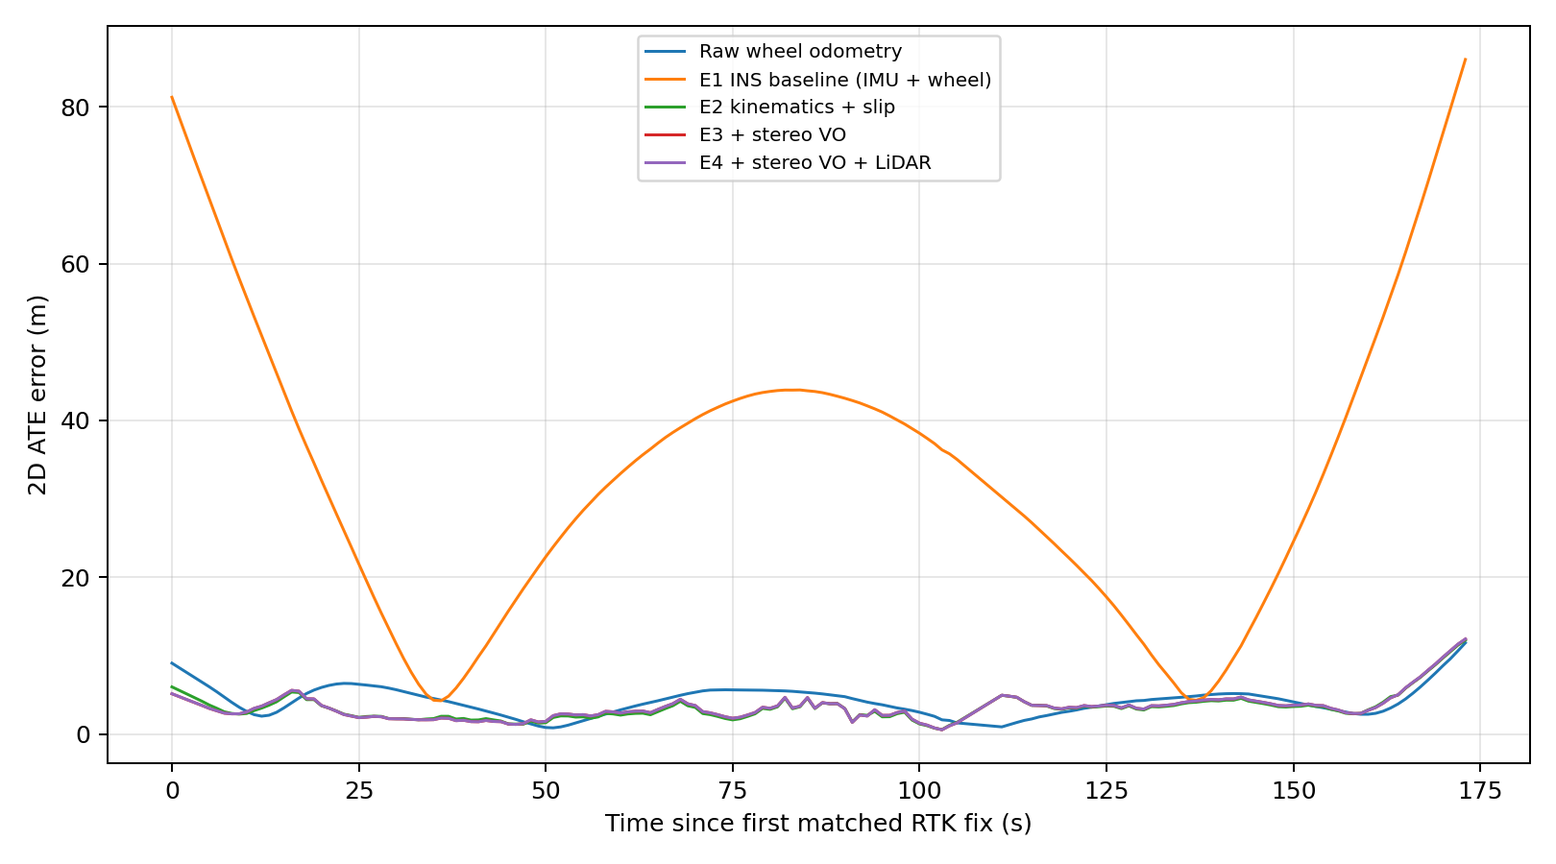
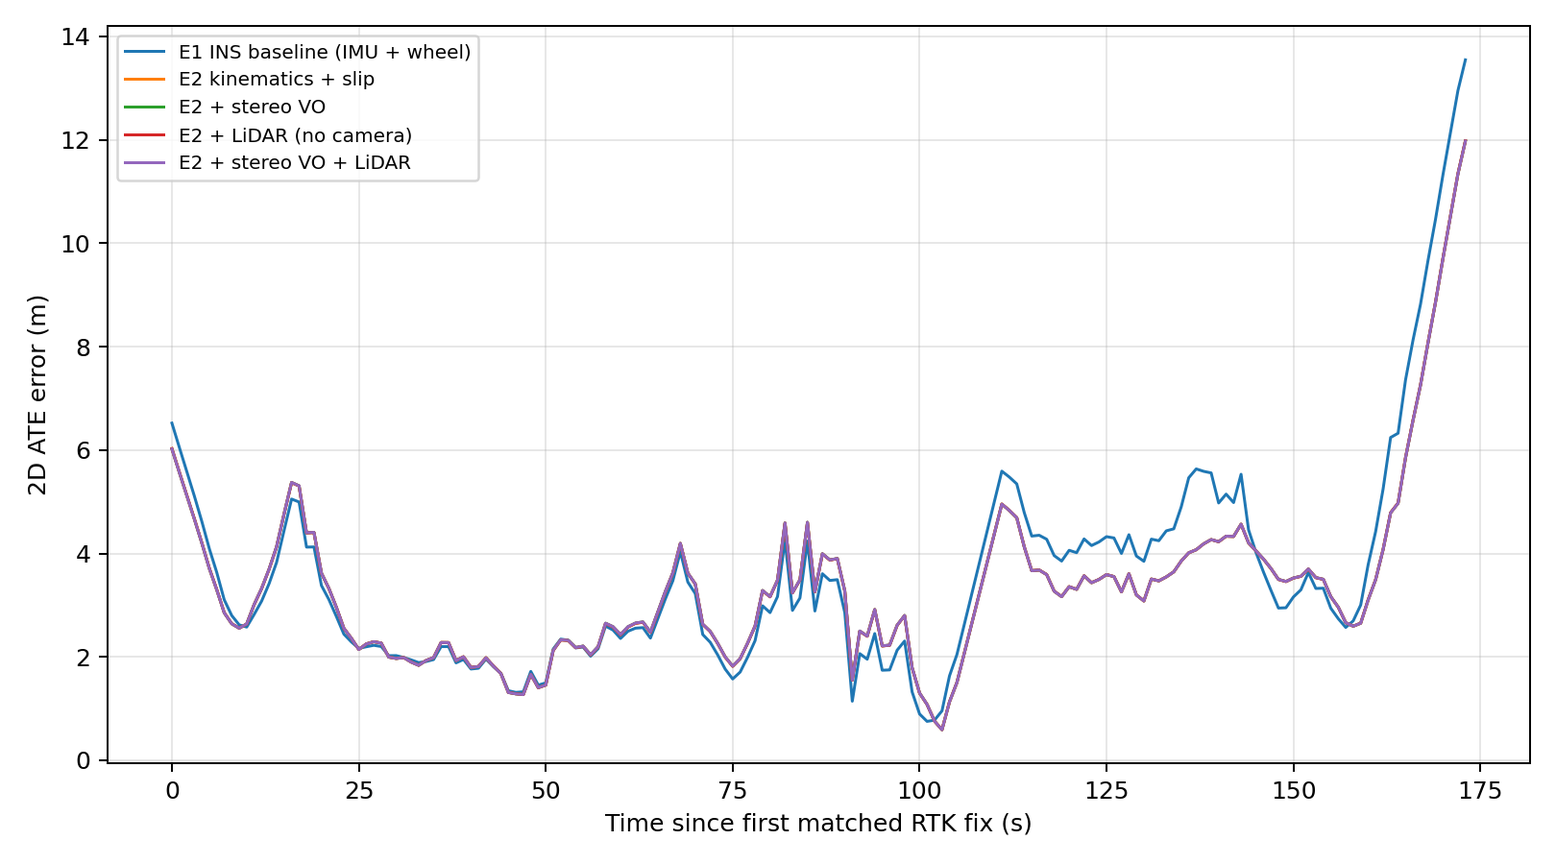
Update homework results and sensor comparison

diff --git a/results/conclusions.md b/results/conclusions.md
@@ -4,13 +4,25 @@
 
 | Конфігурація | RMSE, м | Median, м | P95, м |
 |---|---:|---:|---:|
-| Raw wheel odometry | 4.625 | 4.259 | 7.116 |
-| E1 INS baseline (IMU + wheel) | 38.441 | 33.227 | 72.350 |
+| E1 INS baseline (IMU + wheel) | 4.153 | 3.104 | 7.024 |
 | E2 kinematics + slip | 3.788 | 3.259 | 5.958 |
-| E3 + stereo VO | 3.842 | 3.302 | 5.774 |
-| E4 + stereo VO + LiDAR | 3.844 | 3.304 | 5.780 |
+| E2 + stereo VO | 3.788 | 3.262 | 5.953 |
+| E2 + LiDAR (no camera) | 3.788 | 3.259 | 5.958 |
+| E2 + stereo VO + LiDAR | 3.788 | 3.262 | 5.953 |
 
-Найкращий fused режим — `slip`: 3.788 м RMSE. Покращення відносно raw wheel odometry становить 18.1%.
+Найкращий режим — `visual`: 3.788 м RMSE. Покращення відносно E1 Wheel+IMU становить 8.8%.
+RMSE пораховано по 169 VRS epochs уздовж траєкторії 3215 м.
+
+## Наш шлях обробки даних
+
+1. `encoder.csv` і `xsens_imu.csv` читаються потоково з перевіркою кількості колонок, SI units і строго зростаючих nanosecond timestamps. Обидва потоки мають близько 100 Hz, тому жоден із них не є низькочастотною зовнішньою поправкою.
+2. Encoder counts через resolution, діаметри коліс і фактичний `dt` перетворюються на left/right speed, лінійну швидкість та differential-drive course constraint; `x,y` інтегрує EKF.
+3. IMU gyro `z` і acceleration `x` виконують high-rate EKF prediction: кутова швидкість поширює orientation/yaw, прискорення — speed. IMU-only trajectory не використовується, бо інтегрування acceleration без надійної початкової лінійної швидкості швидко накопичує drift.
+4. E1 Base завжди використовує обидва комплементарні джерела: Wheel + IMU. Wheel update коригує speed і gyro bias; EKF записує `x, y, yaw, speed` після кожного IMU step.
+5. E2 додає wheel/IMU disagreement detector. Під час slip wheel correction пропускається, а IMU prediction продовжується.
+6. Stereo frontend ректифікує пари, знаходить ORB matches, виконує RANSAC essential matrix і відновлює metric scale зі disparity. LiDAR frontend переводить VLP-16 points у vehicle frame, voxelizes їх та оцінює increment через 2D ICP.
+7. Health manager використовує VO лише у degraded wheel interval. LiDAR є другим fallback, якщо немає недавньої якісної VO correction. Низька quality або NIS вище gate залишають стан попереднього етапу.
+8. `vrs_gps.csv` не читається estimator-ом. Після завершення run valid RTK epochs зіставляються за часом, траєкторії один раз вирівнюються rigid SE(2) без scale fit, після чого рахується ATE.
 
 ## Консистентність і межі
 
@@ -18,10 +30,18 @@
 
 VRS-GPS не надходить у EKF. Він використаний після оцінювання стану для часових пар, одного SE(2) вирівнювання без зміни масштабу та ATE по всій траєкторії.
 
-Stereo VO дає незалежні relative-motion updates і знизив P95 похибки, але не покращив загальний RMSE відносно E2. Частину кадрів відкидають feature та NIS gates. LiDAR ICP використовує wheel motion лише як початкове наближення. Через rolling scan distortion його yaw має велику коваріацію; E4 на цій послідовності не дав додаткового покращення RMSE.
+Strict health gating не дозволив VO або LiDAR погіршити E2. На звичайній послідовності використано VO: 1/184 corrections; LiDAR без камер: 0/27 corrections. Frontends повністю обробили дані, але estimator приймав correction лише під час degraded wheel interval.
 
-Проєктна ціль RMSE ≤ 10 м виконана. Ціль покращення ≥ 20% не досягнута: фактичне покращення становить 18.1%.
+## Чому VO та LiDAR майже не покращили результат
 
-## Контрольована перевірка slip detector
+Саме `urban35` є легкою послідовністю для Wheel+IMU: обидва потоки працюють приблизно зі 100 Hz, рух переважно плавний, а slip detector був активний лише для 20 із 17387 wheel samples (0.12%). Тому E2 вже добре відтворює форму траєкторії, а зовнішнім сенсорам майже нічого виправляти.
 
-При 25% scale fault правого колеса на інтервалі 60–70 с detection rate становить 99.8%, а false-positive samples — 0.24%. Slip-aware EKF дає 3.557 м RMSE проти 113.838 м для пошкодженого raw wheel odometry.
+Реалізовані frontends не є повноцінними VIO/LIO. Stereo VO не оптимізує features разом з IMU state, а LiDAR ICP не робить IMU deskew rolling scan. При постійному fusion їхні noisy increments трохи погіршували RMSE, тому health manager використовує їх лише як fallback. На цій послідовності це означає практично однаковий результат E2, E2+VO та E2+LiDAR.
+
+## Порівняння з VIO та LIO
+
+Поточна система є **loosely coupled**: stereo VO та LiDAR ICP спочатку окремо оцінюють relative motion, після чого EKF отримує лише speed/yaw-rate correction. Cross-covariance features, point clouds, IMU bias і state при цьому втрачається.
+
+**VIO** спільно оптимізує camera reprojection residuals, IMU preintegration, pose, velocity і biases. Це краще утримує scale та orientation, але потребує точної camera–IMU calibration, ініціалізації й складнішого nonlinear solver.
+
+**LIO** використовує IMU для deskew кожного LiDAR scan і спільно оцінює trajectory та scan residuals. Це прямо усуває основну проблему нашого VLP-16 ICP — rolling motion distortion. Ціна — точна time/extrinsic calibration, більший state і суттєво більше обчислень.

diff --git a/README.md b/README.md
@@ -1,19 +1,23 @@
 # GPS-denied vehicle localization
 
 Курсовий проєкт для ДЗ 18–19: planar localization автомобіля на Complex Urban
-Dataset, sequence `urban35`. Система обробляє wheel encoders, Xsens IMU, stereo
-camera та left VLP-16. VRS-GPS не входить у fusion і використовується лише для
-післяпроцесингової оцінки траєкторії.
+Dataset, sequence `urban35`. Базова система обробляє wheel encoders та Xsens
+IMU з порівнянною частотою близько 100 Hz. Stereo camera і left VLP-16
+перевіряються як окремі зовнішні джерела. VRS-GPS не входить у fusion і
+використовується лише для післяпроцесингової оцінки траєкторії.
 
 ## Що реалізовано
 
-- **E1 Base:** IMU prediction + wheel-speed update у 2D EKF;
+- **E1 Base:** IMU orientation/angular-rate propagation + wheel linear speed і
+  differential-wheel course; position інтегрується у 2D EKF;
 - **E2 Kinematics + slip:** differential-wheel yaw, gyro-bias correction,
   debounced slip detector і fallback без wheel updates;
-- **E3 Visual:** calibrated stereo rectification, ORB/RANSAC visual odometry,
+- **E2 + Visual:** calibrated stereo rectification, ORB/RANSAC visual odometry,
   metric scale зі stereo disparity, quality та NIS gates;
-- **E4 Full:** E3 + calibrated VLP-16 preprocessing і planar ICP;
-- raw wheel-only comparator, контрольована інжекція wheel fault;
+- **E2 + LiDAR:** окремий режим без камер з calibrated VLP-16 preprocessing і
+  planar ICP;
+- **E2 + Visual + LiDAR:** обидва зовнішні frontends з guarded fallback;
+- контрольована інжекція wheel fault для перевірки slip detector;
 - VRS-GPS evaluation по всій траєкторії, comparison CSV, NIS diagnostics і PNG
   зі скрінами результатів.
 
@@ -42,9 +46,11 @@ data/complex_urban/urban35/
     └── vrs_gps.csv           # лише --validate
 ```
 
-E3 також потребує `calibration/{left.yaml,right.yaml,Vehicle2Stereo.txt}` і
-`image/{stereo_left,stereo_right}/`. E4 потребує
-`calibration/Vehicle2LeftVLP.txt` і `sensor_data/VLP_left/`.
+Режим `visual` потребує
+`calibration/{left.yaml,right.yaml,Vehicle2Stereo.txt}` і
+`image/{stereo_left,stereo_right}/`. Режим `lidar` працює без камер і потребує
+лише `calibration/Vehicle2LeftVLP.txt` та `sensor_data/VLP_left/`. Режим `full`
+потребує обидва набори.
 
 ## Середовище
 
@@ -98,25 +104,40 @@ python main.py --mode slip --inject-slip --validate \
 Шляхи можна перевизначити через `--dataset PATH`, `--output PATH` або
 `config/default.json`.
 
+Окремий експеримент E2 + LiDAR без читання camera frames:
+
+```bash
+python main.py --mode lidar --validate
+```
+
 ## Результати `urban35`
 
-Метрика — 2D ATE на 169 valid `VRS fix_state=4` epochs. Локальна траєкторія один
-раз вирівнюється з UTM через rigid SE(2): translation і yaw коригуються, scale не
-змінюється.
+Метрика — 2D ATE на 169 valid `VRS fix_state=4` epochs уздовж траєкторії
+3215 м. Локальна траєкторія один раз вирівнюється з UTM через rigid SE(2):
+translation і yaw коригуються, scale не змінюється.
 
 | Конфігурація | RMSE, м | P95, м |
 |---|---:|---:|
-| Raw wheel odometry | 4.625 | 7.116 |
-| E1 INS baseline: IMU + wheel speed | 38.441 | 72.350 |
+| E1 INS baseline: IMU + wheel | 4.153 | 7.024 |
 | E2 kinematics + slip | **3.788** | 5.958 |
-| E3 + stereo VO | 3.842 | **5.774** |
-| E4 + stereo VO + LiDAR | 3.844 | 5.780 |
+| E2 + stereo VO | **3.788** | **5.953** |
+| E2 + LiDAR, no camera | 3.788 | 5.958 |
+| E2 + stereo VO + LiDAR | **3.788** | **5.953** |
 
-E1 є базовою INS конфігурацією: IMU виконує prediction, а wheel speed дає
-correction. Raw wheel odometry існує лише як нефільтрований comparator для ДЗ19.
-E2 знижує RMSE на 18.1% відносно raw wheel odometry. У контрольованому fault test detector
+E1 є базовою INS конфігурацією: IMU дає angular rate для orientation, а колеса —
+лінійну швидкість та незалежний course increment. Position інтегрується в EKF
+із цих двох джерел. IMU-only конфігурації немає, бо подвійне інтегрування
+acceleration не дає стійкої лінійної швидкості. E2 знижує RMSE на 8.8%
+відносно E1. Зовнішні frontends використовуються тільки під час деградації wheel
+updates, тому LiDAR-only режим зберігає результат E2, а один прийнятий VO
+increment змінює RMSE лише на 0.00004 м. У контрольованому fault test detector
 має 99.8% detection rate і 0.24% false-positive samples; slip-aware EKF дає
-3.557 м RMSE проти 113.838 м для пошкодженої raw wheel odometry.
+3.557 м RMSE.
+
+Саме `urban35` є легкою послідовністю для Wheel+IMU: рух переважно плавний, а
+slip detector активний лише для 20 із 17 387 wheel samples. Тому VO та LiDAR
+майже нічого виправляти. Реалізовані stereo VO й ICP є окремими frontends, а не
+повноцінними VIO/LIO зі спільною оптимізацією та IMU deskew.
 
 Детальні висновки: [results/conclusions.md](results/conclusions.md). Архітектура,
 кадри координат і межі модулів: [docs/architecture.md](docs/architecture.md).

diff --git a/results/slip_injection/conclusions.md b/results/slip_injection/conclusions.md
@@ -4,17 +4,27 @@
 
 | Конфігурація | RMSE, м | Median, м | P95, м |
 |---|---:|---:|---:|
-| Raw wheel odometry | 113.838 | 115.039 | 158.157 |
 | E2 kinematics + slip | 3.557 | 2.840 | 6.552 |
 
-Найкращий fused режим — `slip`: 3.557 м RMSE. Покращення відносно raw wheel odometry становить 96.9%.
+Найкращий режим — `slip`: 3.557 м RMSE.
+RMSE пораховано по 169 VRS epochs уздовж траєкторії 3215 м.
+
+## Наш шлях обробки даних
+
+1. `encoder.csv` і `xsens_imu.csv` читаються потоково з перевіркою кількості колонок, SI units і строго зростаючих nanosecond timestamps. Обидва потоки мають близько 100 Hz, тому жоден із них не є низькочастотною зовнішньою поправкою.
+2. Encoder counts через resolution, діаметри коліс і фактичний `dt` перетворюються на left/right speed, лінійну швидкість та differential-drive course constraint; `x,y` інтегрує EKF.
+3. IMU gyro `z` і acceleration `x` виконують high-rate EKF prediction: кутова швидкість поширює orientation/yaw, прискорення — speed. IMU-only trajectory не використовується, бо інтегрування acceleration без надійної початкової лінійної швидкості швидко накопичує drift.
+4. E1 Base завжди використовує обидва комплементарні джерела: Wheel + IMU. Wheel update коригує speed і gyro bias; EKF записує `x, y, yaw, speed` після кожного IMU step.
+5. E2 додає wheel/IMU disagreement detector. Під час slip wheel correction пропускається, а IMU prediction продовжується.
+6. Stereo frontend ректифікує пари, знаходить ORB matches, виконує RANSAC essential matrix і відновлює metric scale зі disparity. LiDAR frontend переводить VLP-16 points у vehicle frame, voxelizes їх та оцінює increment через 2D ICP.
+7. Health manager використовує VO лише у degraded wheel interval. LiDAR є другим fallback, якщо немає недавньої якісної VO correction. Низька quality або NIS вище gate залишають стан попереднього етапу.
+8. `vrs_gps.csv` не читається estimator-ом. Після завершення run valid RTK epochs зіставляються за часом, траєкторії один раз вирівнюються rigid SE(2) без scale fit, після чого рахується ATE.
 
 ## Консистентність і межі
 
 Для `slip` wheel-speed NIS нижче порога 3.841 у 99.97% з 16349 перевірених updates; wheel-yaw NIS нижче порога 6.635 у 99.79% з 16349 updates. Поточна модель шуму консервативна.
 
 VRS-GPS не надходить у EKF. Він використаний після оцінювання стану для часових пар, одного SE(2) вирівнювання без зміни масштабу та ATE по всій траєкторії.
-
 
 ## Контрольована перевірка slip detector
 

diff --git a/docs/design_document.md b/docs/design_document.md
@@ -19,7 +19,7 @@
 | Вихідний стан | `x, y` [м], `yaw` [рад], `v` [м/с] | Достатньо для плоскої локалізації автомобіля |
 | Частота оцінки стану | 100 Hz | Частота потоків IMU та енкодерів у вибраній послідовності |
 | Частота зовнішніх корекцій | до 10 Hz | Частота stereo camera та LiDAR |
-| Точність позиції | 2D RMSE ≤ 10 м і ≥ 20% покращення відносно базового EKF | Ціль для порівняння конфігурацій, а не гарантована властивість датасету |
+| Точність позиції | 2D RMSE ≤ 10 м і покращення відносно E1 Wheel+IMU | Реалістична ціль для порівняння конфігурацій на вибраній послідовності |
 | Стійкість до пробуксовування | Ненадійне wheel update відкидається або отримує збільшену коваріацію | Не дозволяє одному хибному вимірюванню визначати траєкторію |
 | Затримка | Не нормується: обробка записаних даних offline | Система не керує автомобілем у реальному часі |
 | Середовище | Міські дороги, повороти, динамічні об'єкти та зміни освітлення | Умови вибраної послідовності |
